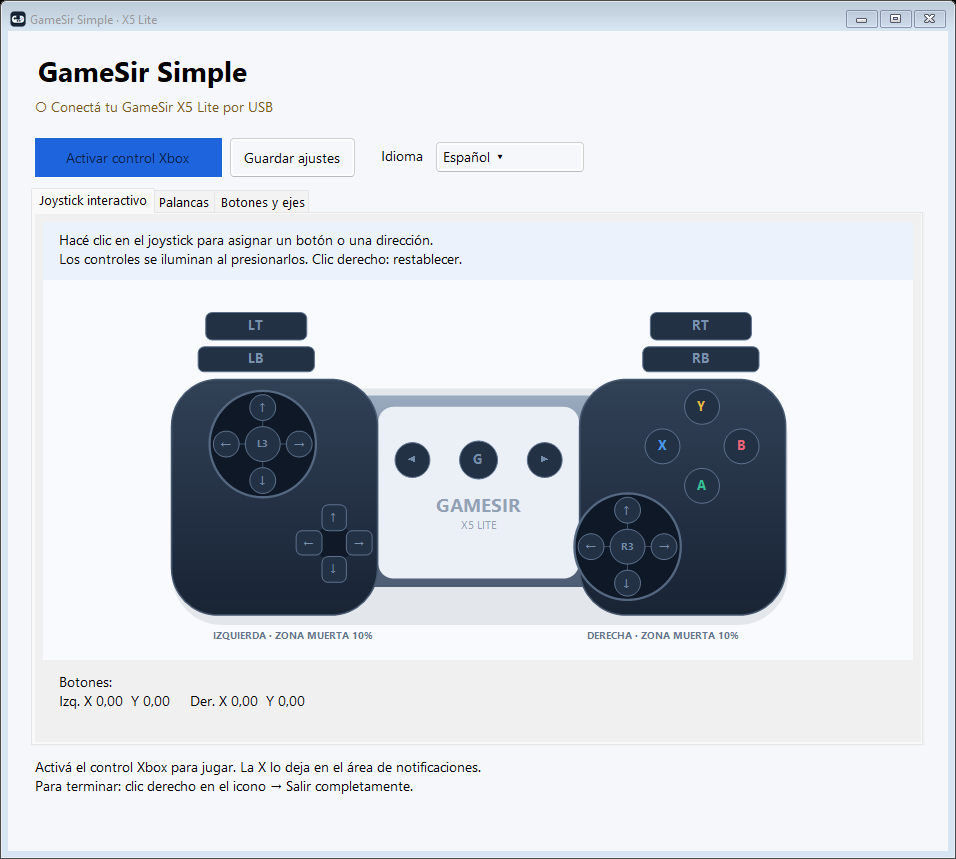
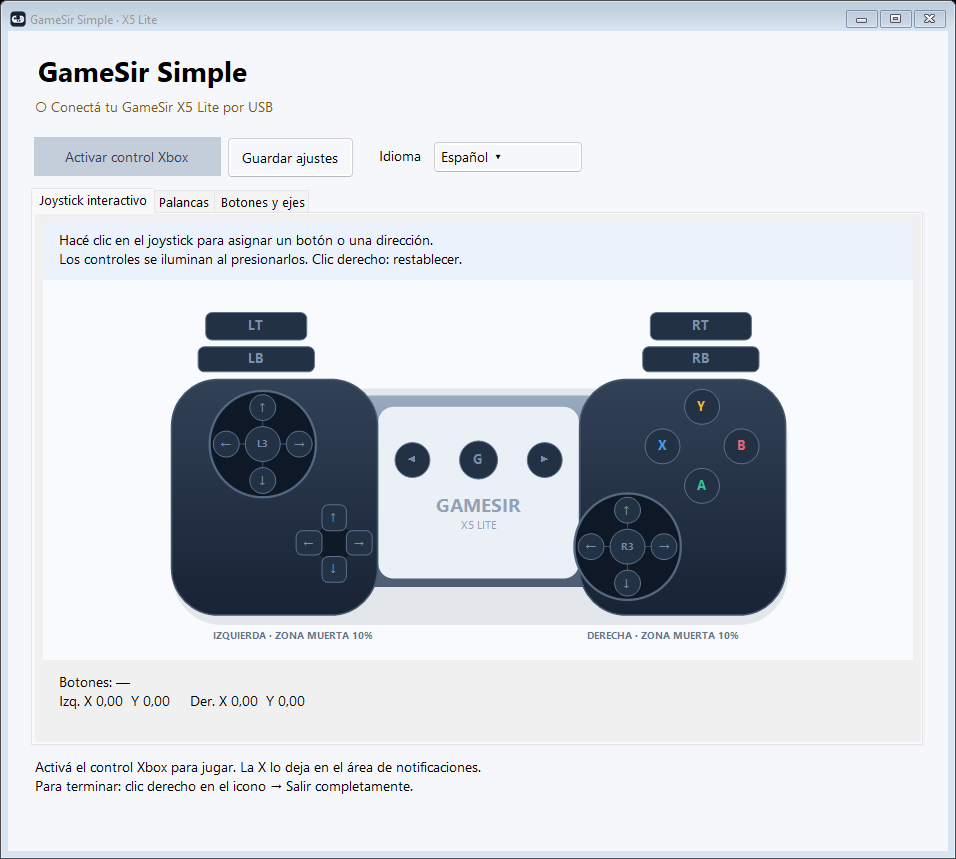
Fix settings crash, language reset and polish controller visuals
- Fix startup crash when a saved stick setting (e.g. response curve) was above 100.
- Fix language switching resetting edited stick settings to startup values.
- Draw the live stick pointer above L3/R3 on the dead-zone scale.
- Grey out the Xbox button when disabled; show it red while active.
- Align the stick settings tab and clean up the mapping table styling.
- Show D-pad bindings with their direction arrow.
- Open the window with a single click on the tray icon.
- Read the embedded mapping correctly with CRLF line endings.
- Add offline regression checks and refresh README screenshots.

Changed region(s): [[0.0303, 0.1513, 0.364, 0.2119], [0.3944, 0.1513, 0.5157, 0.2119]]

diff --git a/src/GameSirSimple/MainWindow.cs b/src/GameSirSimple/MainWindow.cs
@@ -10,7 +10,7 @@ class MainWindow:Form {
     bool exitRequested,trayNoticeShown,resourcesDisposed;
     readonly Engine engine;
     readonly Label status=new(){AutoSize=true},notice=new(){Dock=DockStyle.Bottom,Height=26,Padding=new Padding(20,0,0,0)};
-    readonly Button toggle=new(){Text="Activar control Xbox",AutoSize=true,Padding=new Padding(16,5,16,5),BackColor=Color.FromArgb(30,100,220),ForeColor=Color.White,FlatStyle=FlatStyle.Flat};
+    readonly Button toggle=new(){Text="Activar control Xbox",AutoSize=true,Padding=new Padding(16,5,16,5),BackColor=Color.FromArgb(30,100,220),ForeColor=Color.White,FlatStyle=FlatStyle.Flat,FlatAppearance={BorderSize=0}};
     readonly System.Windows.Forms.Timer timer=new(){Interval=8};
     readonly DataGridView grid=new();
     readonly ControllerView preview=new(){Dock=DockStyle.Fill};
@@ -19,8 +19,8 @@ class MainWindow:Form {
     string? recording;
     float[] baseline=Array.Empty<float>();byte[] baselineButtons=Array.Empty<byte>(),baselineHats=Array.Empty<byte>();
     DateTime recordAt,recordUntil;int ticks;bool ready;
-    public MainWindow(bool previewOnly=false) {
-        config=previewOnly?new Settings():Settings.Load();I18n.Language=config.Language;
+    public MainWindow(bool previewOnly=false,Settings? settings=null) {
+        config=settings??(previewOnly?new Settings():Settings.Load());I18n.Language=config.Language;
         Text="GameSir Simple · X5 Lite";Font=new Font("Segoe UI",10);ClientSize=new Size(940,820);MinimumSize=new Size(860,760);StartPosition=FormStartPosition.CenterScreen;BackColor=Color.FromArgb(245,247,251);
         using(var resource=typeof(MainWindow).Assembly.GetManifestResourceStream("GameSirSimple.app.ico"))if(resource!=null)Icon=new Icon(resource);
         engine=new Engine(config,!previewOnly);
@@ -38,26 +38,30 @@ class MainWindow:Form {
         preview.AssignRequested+=BeginRecord;
         preview.ResetRequested+=n=>{CancelRecord();config.Bindings.Remove(n);UpdateGrid();AutoSave();};
         var sticks=new TabPage("Palancas"){Padding=new Padding(16),AutoScroll=true};tabs.TabPages.Add(sticks);
-        var options=new TableLayoutPanel{Dock=DockStyle.Top,AutoSize=true,ColumnCount=2};options.ColumnStyles.Add(new ColumnStyle(SizeType.Percent,78));options.ColumnStyles.Add(new ColumnStyle(SizeType.Percent,22));sticks.Controls.Add(options);
+        var options=new TableLayoutPanel{Dock=DockStyle.Top,AutoSize=true,ColumnCount=2};options.ColumnStyles.Add(new ColumnStyle(SizeType.AutoSize));options.ColumnStyles.Add(new ColumnStyle(SizeType.AutoSize));sticks.Controls.Add(options);
         AddNumber(options,"Zona muerta izquierda (%)",config.LeftDead,0,40,v=>config.LeftDead=v);
         AddNumber(options,"Zona muerta derecha (%)",config.RightDead,0,40,v=>config.RightDead=v);
         AddNumber(options,"Recorrido para llegar al máximo (%)",config.Outer,60,100,v=>config.Outer=v);
         AddNumber(options,"Curva: 100 normal · >100 más suave al centro",config.Response,50,200,v=>config.Response=v);
         for(int i=0;i<4;i++) {
-            int a=i;var cb=new CheckBox{Text="Invertir "+new[]{"X izquierda","Y izquierda","X derecha","Y derecha"}[i],AutoSize=true,Checked=config.Invert[i],Margin=new Padding(0,8,0,0)};
+            int a=i;var cb=new CheckBox{Text="Invertir "+new[]{"X izquierda","Y izquierda","X derecha","Y derecha"}[i],AutoSize=true,Checked=config.Invert[i],Margin=new Padding(3,8,0,0)};
             cb.CheckedChanged+=(_,_)=>{config.Invert[a]=cb.Checked;AutoSave();};AddWide(options,cb);
         }
-        var calibrate=new Button{Text="Calibrar centro (soltá las dos palancas)",AutoSize=true,Margin=new Padding(0,16,0,0)};
+        var calibrate=new Button{Text="Calibrar centro (soltá las dos palancas)",AutoSize=true,Margin=new Padding(3,16,0,0)};
         calibrate.Click+=(_,_)=>{
             if(!engine.Connected){notice.Text=I18n.T("Conectá el GameSir para calibrar.");return;}
             var centers=Enumerable.Range(0,4).Select(i=>SDL.SDL_GameControllerGetAxis(engine.Pad,i)/32768f).ToArray();
             if(centers.Any(v=>Math.Abs(v)>.35f)){notice.Text=I18n.T("Soltá las dos palancas y volvé a calibrar.");return;}
             config.Centers=centers;AutoSave();notice.Text=I18n.T("Centro calibrado para el mapa automático.");
         };AddWide(options,calibrate);
-        var reset=new Button{Text="Restablecer centro",AutoSize=true,Margin=new Padding(0,8,0,0)};reset.Click+=(_,_)=>{Array.Clear(config.Centers);AutoSave();};AddWide(options,reset);
-        AddWide(options,new Label{Text="Zona muerta radial: elimina movimientos cerca del centro.\nBajá el recorrido máximo si la palanca no llega al borde.\nLos gatillos del X5 Lite son digitales: LT y RT funcionan como botones.\nLa calibración de centro se aplica a los ejes automáticos. Al reasignar\nun eje se toma su posición de reposo durante la grabación.",AutoSize=true,Margin=new Padding(0,16,0,0)});
+        var reset=new Button{Text="Restablecer centro",AutoSize=true,Margin=new Padding(3,8,0,0)};reset.Click+=(_,_)=>{Array.Clear(config.Centers);AutoSave();};AddWide(options,reset);
+        AddWide(options,new Label{Text="Zona muerta radial: elimina movimientos cerca del centro.\nBajá el recorrido máximo si la palanca no llega al borde.\nLos gatillos del X5 Lite son digitales: LT y RT funcionan como botones.\nLa calibración de centro se aplica a los ejes automáticos. Al reasignar\nun eje se toma su posición de reposo durante la grabación.",AutoSize=true,Margin=new Padding(3,16,0,0)});
         var mapping=new TabPage("Botones y ejes"){Padding=new Padding(8)};tabs.TabPages.Add(mapping);
-        grid.Dock=DockStyle.Fill;grid.AllowUserToAddRows=false;grid.AllowUserToDeleteRows=false;grid.RowHeadersVisible=false;grid.ReadOnly=true;grid.AutoSizeColumnsMode=DataGridViewAutoSizeColumnsMode.Fill;grid.SelectionMode=DataGridViewSelectionMode.FullRowSelect;grid.MultiSelect=false;grid.BackgroundColor=Color.White;
+        grid.Dock=DockStyle.Fill;grid.AllowUserToAddRows=false;grid.AllowUserToDeleteRows=false;grid.RowHeadersVisible=false;grid.ReadOnly=true;grid.AutoSizeColumnsMode=DataGridViewAutoSizeColumnsMode.Fill;grid.SelectionMode=DataGridViewSelectionMode.FullRowSelect;grid.MultiSelect=false;grid.BackgroundColor=Color.White;grid.BorderStyle=BorderStyle.None;
+        grid.EnableHeadersVisualStyles=false;grid.ColumnHeadersHeightSizeMode=DataGridViewColumnHeadersHeightSizeMode.DisableResizing;grid.ColumnHeadersHeight=34;grid.RowTemplate.Height=28;
+        grid.ColumnHeadersDefaultCellStyle=new DataGridViewCellStyle{BackColor=Color.FromArgb(235,242,251),ForeColor=Color.FromArgb(31,46,67),SelectionBackColor=Color.FromArgb(235,242,251),SelectionForeColor=Color.FromArgb(31,46,67),Font=new Font("Segoe UI",10,FontStyle.Bold),Padding=new Padding(4,0,0,0)};
+        grid.DefaultCellStyle.SelectionBackColor=Color.White;grid.DefaultCellStyle.SelectionForeColor=Color.FromArgb(31,46,67);grid.DefaultCellStyle.Padding=new Padding(4,0,0,0);
+        grid.DataBindingComplete+=(_,_)=>grid.ClearSelection();grid.VisibleChanged+=(_,_)=>{if(grid.Visible)grid.ClearSelection();};
         grid.Columns.Add("target","Control Xbox");grid.Columns.Add("binding","Asignación");
         grid.Columns.Add(new DataGridViewButtonColumn{HeaderText="",Text="Asignar",UseColumnTextForButtonValue=true,FillWeight=48});
         grid.Columns.Add(new DataGridViewButtonColumn{HeaderText="",Text="Automático",UseColumnTextForButtonValue=true,FillWeight=60});
@@ -69,7 +73,7 @@ class MainWindow:Form {
         Controls.Add(root);Controls.Add(notice);KeyPreview=true;KeyDown+=(_,e)=>{if(e.KeyCode==Keys.Escape)CancelRecord();};
         trayMenu.Items.AddRange(new ToolStripItem[]{trayOpen,trayToggle,new ToolStripSeparator(),trayExit});
         tray.Icon=Icon;tray.ContextMenuStrip=trayMenu;tray.Visible=!previewOnly;
-        trayOpen.Click+=(_,_)=>RestoreWindow();tray.DoubleClick+=(_,_)=>RestoreWindow();tray.BalloonTipClicked+=(_,_)=>RestoreWindow();
+        trayOpen.Click+=(_,_)=>RestoreWindow();tray.MouseClick+=(_,e)=>{if(e.Button==MouseButtons.Left)RestoreWindow();};tray.BalloonTipClicked+=(_,_)=>RestoreWindow();
         trayToggle.Click+=(_,_)=>{Toggle();RefreshView();};trayExit.Click+=(_,_)=>{exitRequested=true;Close();};
         trayMenu.Opening+=(_,_)=>RefreshTray();
         CaptureStaticText(this);ApplyLanguage();
@@ -86,7 +90,8 @@ class MainWindow:Form {
     static void AddWide(TableLayoutPanel p,Control c){int row=p.RowCount++;p.Controls.Add(c,0,row);p.SetColumnSpan(c,2);}
     void AddNumber(TableLayoutPanel p,string label,int val,int min,int max,Action<int> change) {
         int row=p.RowCount++;p.RowStyles.Add(new RowStyle(SizeType.Absolute,44));p.Controls.Add(new Label{Text=label,AutoSize=true,Anchor=AnchorStyles.Left},0,row);
-        var num=new NumericUpDown{Value=val,Minimum=min,Maximum=max,Width=90,Anchor=AnchorStyles.Left};num.ValueChanged+=(_,_)=>{change((int)num.Value);AutoSave();};p.Controls.Add(num,1,row);
+        // Minimum/Maximum must be set before Value: saved values above 100 would otherwise throw on startup.
+        var num=new NumericUpDown{Minimum=min,Maximum=max,Value=Math.Clamp(val,min,max),Width=90,Anchor=AnchorStyles.Left};num.ValueChanged+=(_,_)=>{change((int)num.Value);AutoSave();};p.Controls.Add(num,1,row);
     }
     void Save(){try{config.Save();notice.Text=I18n.T("Ajustes guardados.");}catch{notice.Text=I18n.T("No se pudieron guardar los ajustes.");}}
     void AutoSave(){if(ready)Save();}
@@ -119,7 +124,9 @@ class MainWindow:Form {
     }
     void CaptureStaticText(Control parent){
         foreach(Control child in parent.Controls){
-            if(child!=status && child!=notice && child!=mappingPrompt && child!=live && child!=toggle && child!=languagePicker && child.Text.Length>0)staticText[child]=child.Text;
+            // Only translatable captions: inputs such as NumericUpDown keep user values in Text.
+            if(child is NumericUpDown)continue;
+            if((child is Label or ButtonBase or TabPage) && child!=status && child!=notice && child!=mappingPrompt && child!=live && child!=toggle && child!=languagePicker && child.Text.Length>0)staticText[child]=child.Text;
             CaptureStaticText(child);
         }
     }
@@ -134,7 +141,9 @@ class MainWindow:Form {
         status.Text=I18n.T(engine.Active?"● Xbox activo · listo para jugar":engine.Connected?"● GameSir X5 Lite conectado · podés probarlo y configurar":"○ Conectá tu GameSir X5 Lite por USB");
         status.ForeColor=engine.Connected?Color.FromArgb(20,125,65):Color.FromArgb(120,90,30);
         toggle.Text=I18n.T(engine.Active?"Desactivar Xbox":"Activar control Xbox");toggle.Enabled=engine.Connected && recording==null;
-        string buttons=string.Join("  ",Engine.Names.Take(17).Where((n,i)=>engine.Values[i]>.5f).Select(I18n.Name));
+        // A flat button keeps its BackColor when disabled, so make the disabled state visible.
+        toggle.BackColor=!toggle.Enabled?Color.FromArgb(196,205,218):engine.Active?Color.FromArgb(200,60,60):Color.FromArgb(30,100,220);toggle.ForeColor=toggle.Enabled?Color.White:Color.FromArgb(90,104,124);
+        string buttons=string.Join("  ",Engine.Names.Take(17).Where((n,i)=>engine.Values[i]>.5f).Select(I18n.Name));if(buttons.Length==0)buttons="—";
         live.Text=I18n.T("Botones: {0}\nIzq. X {1:F2}  Y {2:F2}     Der. X {3:F2}  Y {4:F2}",buttons,engine.LX,engine.LY,engine.RX,engine.RY);
         preview.Values=engine.Values;preview.LX=engine.LX;preview.LY=engine.LY;preview.RX=engine.RX;preview.RY=engine.RY;preview.LeftDead=config.LeftDead;preview.RightDead=config.RightDead;preview.Recording=recording;
         mappingPrompt.Text=recording==null?I18n.T("Hacé clic en el joystick para asignar un botón o una dirección.\nLos controles se iluminan al presionarlos. Clic derecho: restablecer."):

diff --git a/src/GameSirSimple/VisualCheck.cs b/src/GameSirSimple/VisualCheck.cs
@@ -32,7 +32,8 @@ static class VisualCheck
             if(Engine.Shape(.5f,0,.1f,1,2).x>=Engine.Shape(.5f,0,.1f,1,1).x)throw new Exception("Response curve regression");
             var trigger=new Binding("axis",0,1,-1);if(trigger.AxisValue(-1)!=0 || trigger.AxisValue(1)!=1)throw new Exception("Trigger range regression");
             var inverse=new Binding("axis",0,-1,0);if(inverse.AxisValue(-1)!=1 || inverse.AxisValue(1)!=0)throw new Exception("Axis inversion regression");
-            result.Add("PASS: radial dead zone, travel, diagonal clamp, response curve and axis/trigger mapping.");
+            I18n.Language="en";if(new Binding("hat",0,8,0).ToString()!="D-pad 1 · ←")throw new Exception("D-pad binding label should show its direction");I18n.Language="es";
+            result.Add("PASS: radial dead zone, travel, diagonal clamp, response curve, axis/trigger mapping and D-pad labels.");
             var settings=new Settings{Language="zh-CN",LeftDead=-5,RightDead=500,Outer=0,Response=900,Centers=new[]{float.NaN,1f,.05f,0},Bindings=new(){["A"]=null!,["B"]=new("axis",0,int.MinValue,0),["X"]=new("button",3,1,0),["unknown"]=new("button",0,1,0)}};
             settings.Normalize();
             if(settings.LeftDead!=0 || settings.RightDead!=40 || settings.Outer!=60 || settings.Response!=200 || settings.Centers[0]!=0 || settings.Centers[1]!=0 || settings.Centers[2]!=.05f || settings.Bindings.Count!=1 || !settings.Bindings.ContainsKey("X"))throw new Exception("Invalid settings not repaired");
@@ -73,6 +74,16 @@ static class VisualCheck
                     }
                 }
             }
+            var custom=new Settings{LeftDead=25,RightDead=5,Outer=80,Response=180};
+            using(var window=new MainWindow(true,custom)){
+                var numbers=Descendants(window).OfType<NumericUpDown>().ToArray();
+                if(numbers.Length!=4 || numbers[0].Value!=25 || numbers[3].Value!=180)throw new Exception("Saved stick settings above 100 not loaded");
+                numbers[0].Value=33;numbers[3].Value=150;
+                var picker=Descendants(window).OfType<LanguagePicker>().Single();
+                picker.SelectedIndex=1;picker.SelectedIndex=0;
+                if(numbers[0].Value!=33 || numbers[3].Value!=150 || custom.LeftDead!=33 || custom.Response!=150 || numbers[0].Text!="33")throw new Exception("Language switch reset stick settings");
+            }
+            result.Add("PASS: saved response curves above 100 load, and language switching keeps edited stick values.");
             result.Add("PASS: live ES/EN/ZH language switching and back, mapping labels, tray translations and saved language schema.");
             result.Add("PASS: all three screens rendered in all three languages offscreen; no external-app banner or saved-setting changes.");
             if(!MainWindow.KeepInTray(CloseReason.UserClosing,false) || MainWindow.KeepInTray(CloseReason.UserClosing,true) || MainWindow.KeepInTray(CloseReason.WindowsShutDown,false) || MainWindow.KeepInTray(CloseReason.ApplicationExitCall,false))throw new Exception("Tray closing policy regression");

diff --git a/src/GameSirSimple/ControllerView.cs b/src/GameSirSimple/ControllerView.cs
@@ -80,7 +80,13 @@ class ControllerView:Control
             using var ring=new Pen(Color.FromArgb(84,104,129),3);using var b=new SolidBrush(Color.FromArgb(14,24,38));g.FillEllipse(b,x-70,y-70,140,140);g.DrawEllipse(ring,x-70,y-70,140,140);
             using var dz=new SolidBrush(Color.FromArgb(60,106,142,176));float r=dead*.58f;g.FillEllipse(dz,x-r,y-r,r*2,r*2);
             using var cross=new Pen(Color.FromArgb(58,78,101),1);g.DrawLine(cross,x-60,y,x+60,y);g.DrawLine(cross,x,y-60,x,y+60);
-            using var trace=new Pen(Color.FromArgb(70,190,220),3);g.DrawLine(trace,x,y,x+vx*36,y+vy*36);using var dot=new SolidBrush(Color.FromArgb(67,211,208));g.FillEllipse(dot,x+vx*36-5,y+vy*36-5,10,10);
+        }
+        // Drawn after the buttons so small stick movements stay visible over L3/R3; same 58px scale as the dead zone.
+        void Pointer(float x,float y,float vx,float vy){
+            if(vx==0 && vy==0)return;
+            float px=x+vx*58,py=y+vy*58;
+            using var trace=new Pen(Color.FromArgb(150,70,190,220),2.5f){StartCap=LineCap.Round,EndCap=LineCap.Round};g.DrawLine(trace,x,y,px,py);
+            using var dot=new SolidBrush(Color.FromArgb(67,211,208));using var edge=new Pen(Color.White,1.5f);g.FillEllipse(dot,px-6,py-6,12,12);g.DrawEllipse(edge,px-6,py-6,12,12);
         }
         Stick(166,215,lx,ly,leftDead);Stick(646,350,rx,ry,rightDead);
         using(var b=new SolidBrush(Color.FromArgb(15,25,40)))using(var p=Rounded(new(241,326,38,38),5))g.FillPath(b,p);
@@ -92,6 +98,7 @@ class ControllerView:Control
             if(s.Round){g.FillEllipse(b,s.Bounds);g.DrawEllipse(pen,s.Bounds);}else{using var p=Rounded(s.Bounds,8);g.FillPath(b,p);g.DrawPath(pen,p);}
             DrawText(g,s.Label,s.Bounds,s.Index>=17?19: s.Index==7||s.Index==8?13:17,active||selected?Color.White:s.Tint,FontStyle.Bold);
         }
+        Pointer(166,215,lx,ly);Pointer(646,350,rx,ry);
         DrawText(g,I18n.T("IZQUIERDA · ZONA MUERTA {0}%",leftDead),new(42,454,330,26),13,muted,FontStyle.Bold);DrawText(g,I18n.T("DERECHA · ZONA MUERTA {0}%",rightDead),new(528,454,330,26),13,muted,FontStyle.Bold);
         g.Restore(saved);
     }

diff --git a/src/GameSirSimple/Engine.cs b/src/GameSirSimple/Engine.cs
@@ -47,7 +47,7 @@ static class SDL
     }
     public static byte[] EmbeddedMapping(){
         using var stream=typeof(SDL).Assembly.GetManifestResourceStream("GameSirSimple.gamecontrollerdb.txt")??throw new Exception(I18n.T("No se encontró el mapa integrado del GameSir."));
-        using var reader=new StreamReader(stream);var lines=reader.ReadToEnd().Split('\n').Where(l=>l.Contains(",GameSir X5 Lite,") && l.Contains("platform:Windows,"));
+        using var reader=new StreamReader(stream);var lines=reader.ReadToEnd().Split('\n').Select(l=>l.TrimEnd('\r')).Where(l=>l.Contains(",GameSir X5 Lite,") && l.Contains("platform:Windows,"));
         string mapping=string.Join("\n",lines).Trim();
         if(mapping.Length==0)throw new Exception(I18n.T("El mapa integrado del GameSir está incompleto."));
         return Encoding.UTF8.GetBytes(mapping+"\n");
@@ -55,7 +55,7 @@ static class SDL
 }
 
 public record Binding(string Kind,int Index,int Sign,float Center) {
-    public override string ToString()=>Kind=="button"?I18n.T("Botón {0}",Index+1):Kind=="hat"?I18n.T("Cruceta {0} · {1}",Index+1,Sign):I18n.T("Eje {0} {1}",Index+1,Sign>0?"+":"−");
+    public override string ToString()=>Kind=="button"?I18n.T("Botón {0}",Index+1):Kind=="hat"?I18n.T("Cruceta {0} · {1}",Index+1,Sign switch{1=>"↑",2=>"→",4=>"↓",8=>"←",_=>Sign.ToString()}):I18n.T("Eje {0} {1}",Index+1,Sign>0?"+":"−");
     public float AxisValue(float raw)=>float.IsFinite(raw)&&float.IsFinite(Center)?Math.Clamp((raw-Center)*Sign/Math.Max(.05f,1-Center*Sign),0,1):0;
 }
 public class Settings {

diff --git a/CHANGELOG.md b/CHANGELOG.md
@@ -1,5 +1,20 @@
 # Changelog
 
+## Unreleased
+
+- Fix a startup crash when a saved response curve (or any stick setting) was above 100.
+- Fix language switching resetting edited stick settings to the values from app startup.
+- Show D-pad bindings with their direction arrow instead of the raw hat bit number.
+- Open the window with a single left click on the tray icon (double-click still works).
+- Read the embedded mapping correctly even if the file is checked out with CRLF line endings.
+- Draw the live stick pointer on top of L3/R3 and on the same scale as the dead zone, so small movements are visible.
+- Grey out the Xbox button while no controller is connected, and show it in red while emulation is active.
+- Place stick setting fields next to their labels and align the checkboxes and buttons on that tab.
+- Remove the misleading pre-selected first row in the mapping table and give it clearer headers.
+- Show "—" in the live readout when no button is pressed.
+- Refresh the README screenshots.
+- Add offline regression checks for these fixes.
+
 ## v1.2.0
 
 - Add an instant, persistent Spanish / English / Simplified Chinese language selector.
@@ -7,7 +22,6 @@
 - Keep the app and emulation running in the notification area when X is clicked.
 - Reopen from the tray icon, toggle Xbox from its menu, or exit completely.
 - Allow Windows shutdown and explicit exit to release the virtual controller.
-
 - Remove the external-emulator banner and process-based activation block.
 - Keep the main screen focused on GameSir Simple controls and saved settings.
 - Embed the X5 Lite mapping in the executable, eliminating the external mapping-file requirement.
